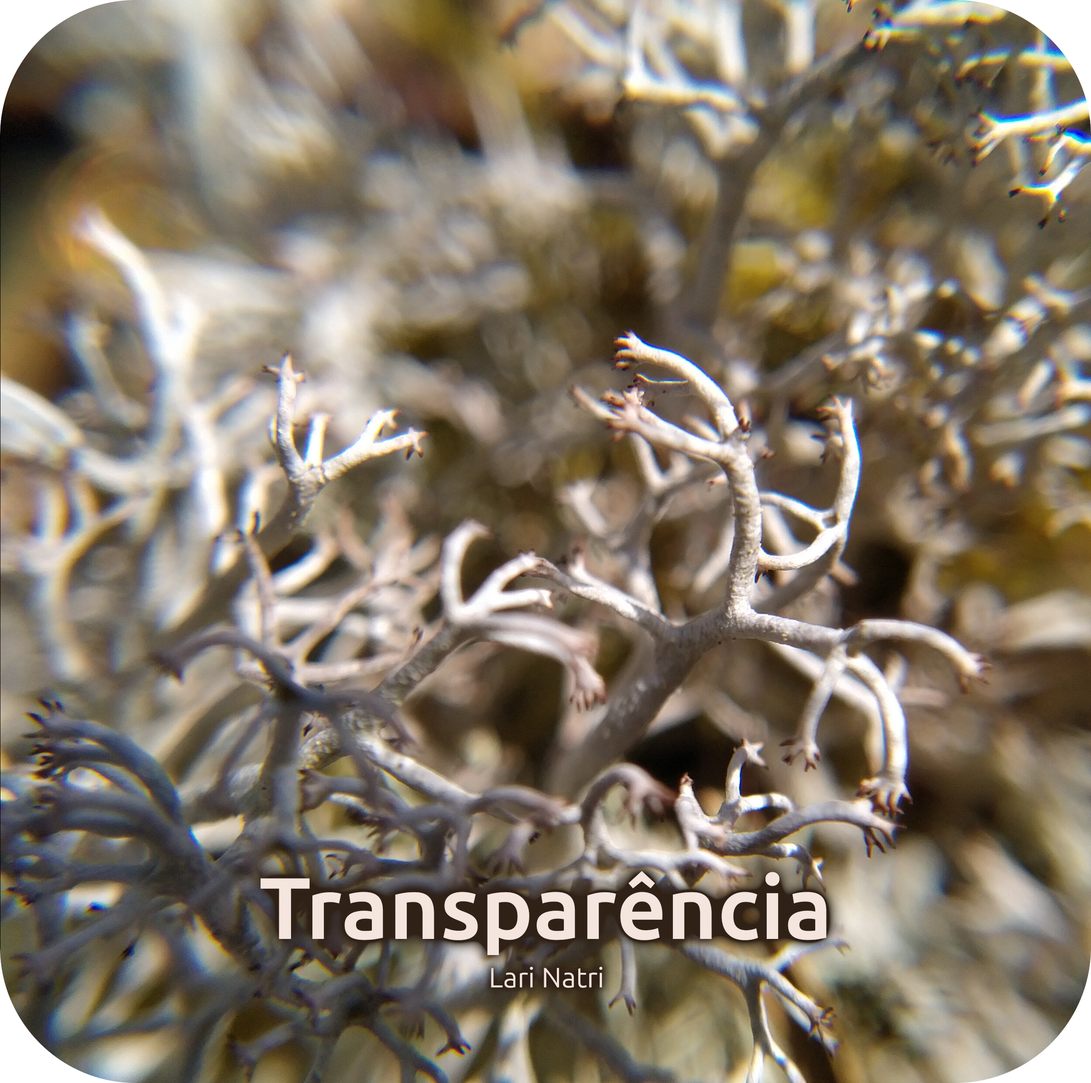
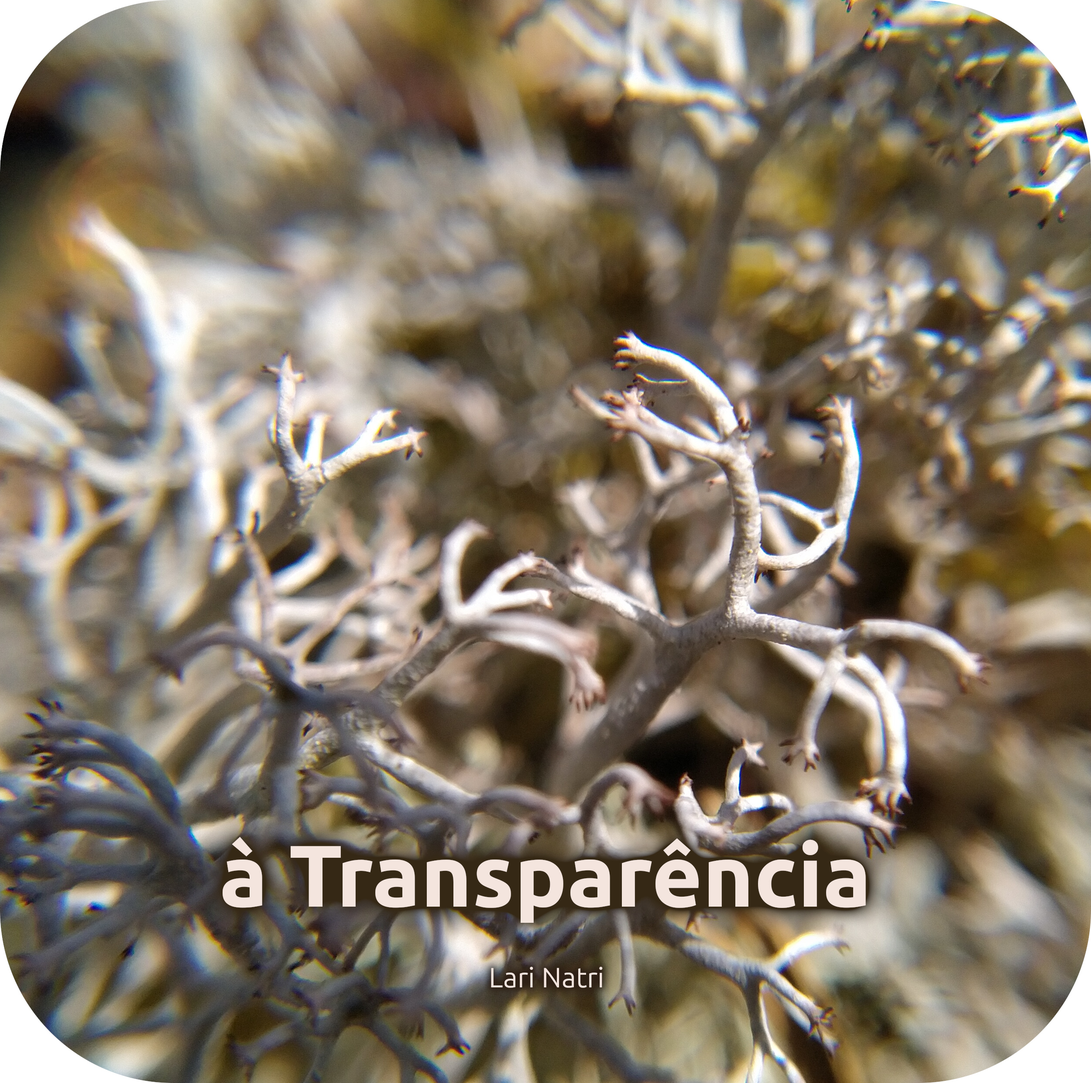
[Astral] Adjust chapter title

diff --git a/unilaiva-astral-completa_A5.tex b/unilaiva-astral-completa_A5.tex
@@ -188,7 +188,7 @@
       \input{content/songs_astral_unilaiva_diversos.tex}
     \end{songs}
 
-  \mainchapter{Larva: Transparência (Unilaiva)}{chapultransparenciacolor}[ul-astral-chapter_transparencia__2500x2481px__by_Lari_Natri.jpg]
+  \mainchapter{Larva: à Transparência (Unilaiva)}{chapultransparenciacolor}[ul-astral-chapter_transparencia__2500x2481px__by_Lari_Natri.jpg]
     \begin{songs}{}
       \input{content/songs_astral_unilaiva_larva.tex}
     \end{songs}

diff --git a/unilaiva-astral-variados_A5.tex b/unilaiva-astral-variados_A5.tex
@@ -47,7 +47,7 @@
       \input{content/songs_astral_unilaiva_diversos.tex}
     \end{songs}
 
-  \mainchapter{Larva: Transparência (Unilaiva)}{chapultransparenciacolor}[ul-astral-chapter_transparencia__2500x2481px__by_Lari_Natri.jpg]
+  \mainchapter{Larva: à Transparência (Unilaiva)}{chapultransparenciacolor}[ul-astral-chapter_transparencia__2500x2481px__by_Lari_Natri.jpg]
     \begin{songs}{}
       \input{content/songs_astral_unilaiva_larva.tex}
     \end{songs}
